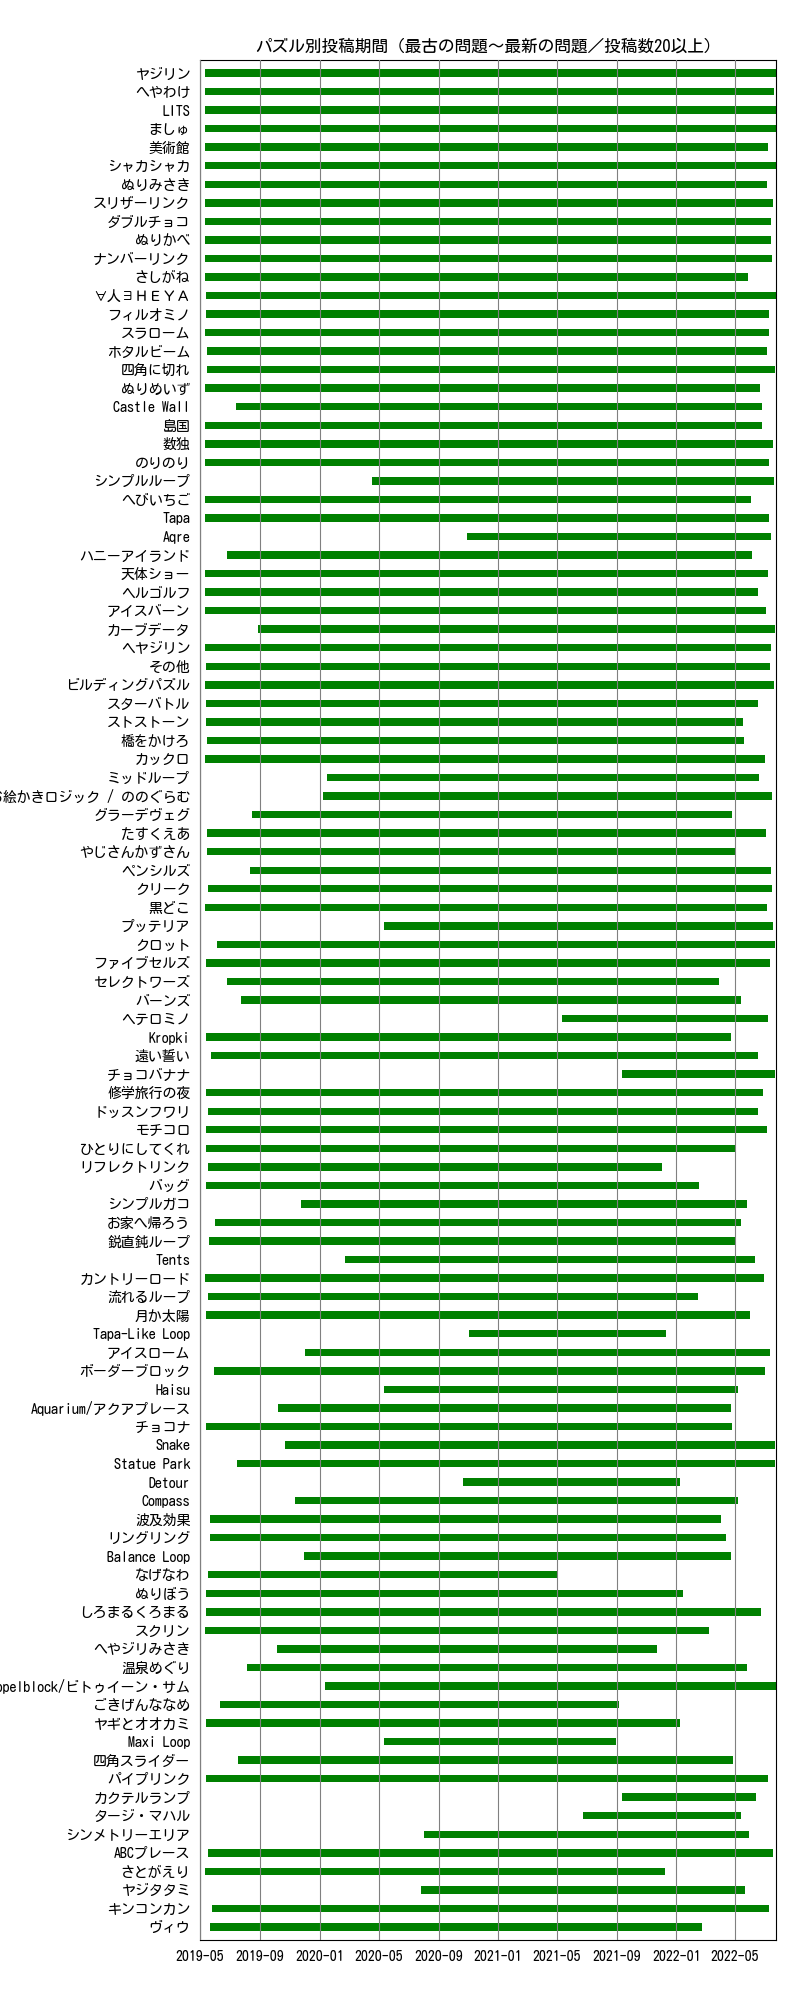
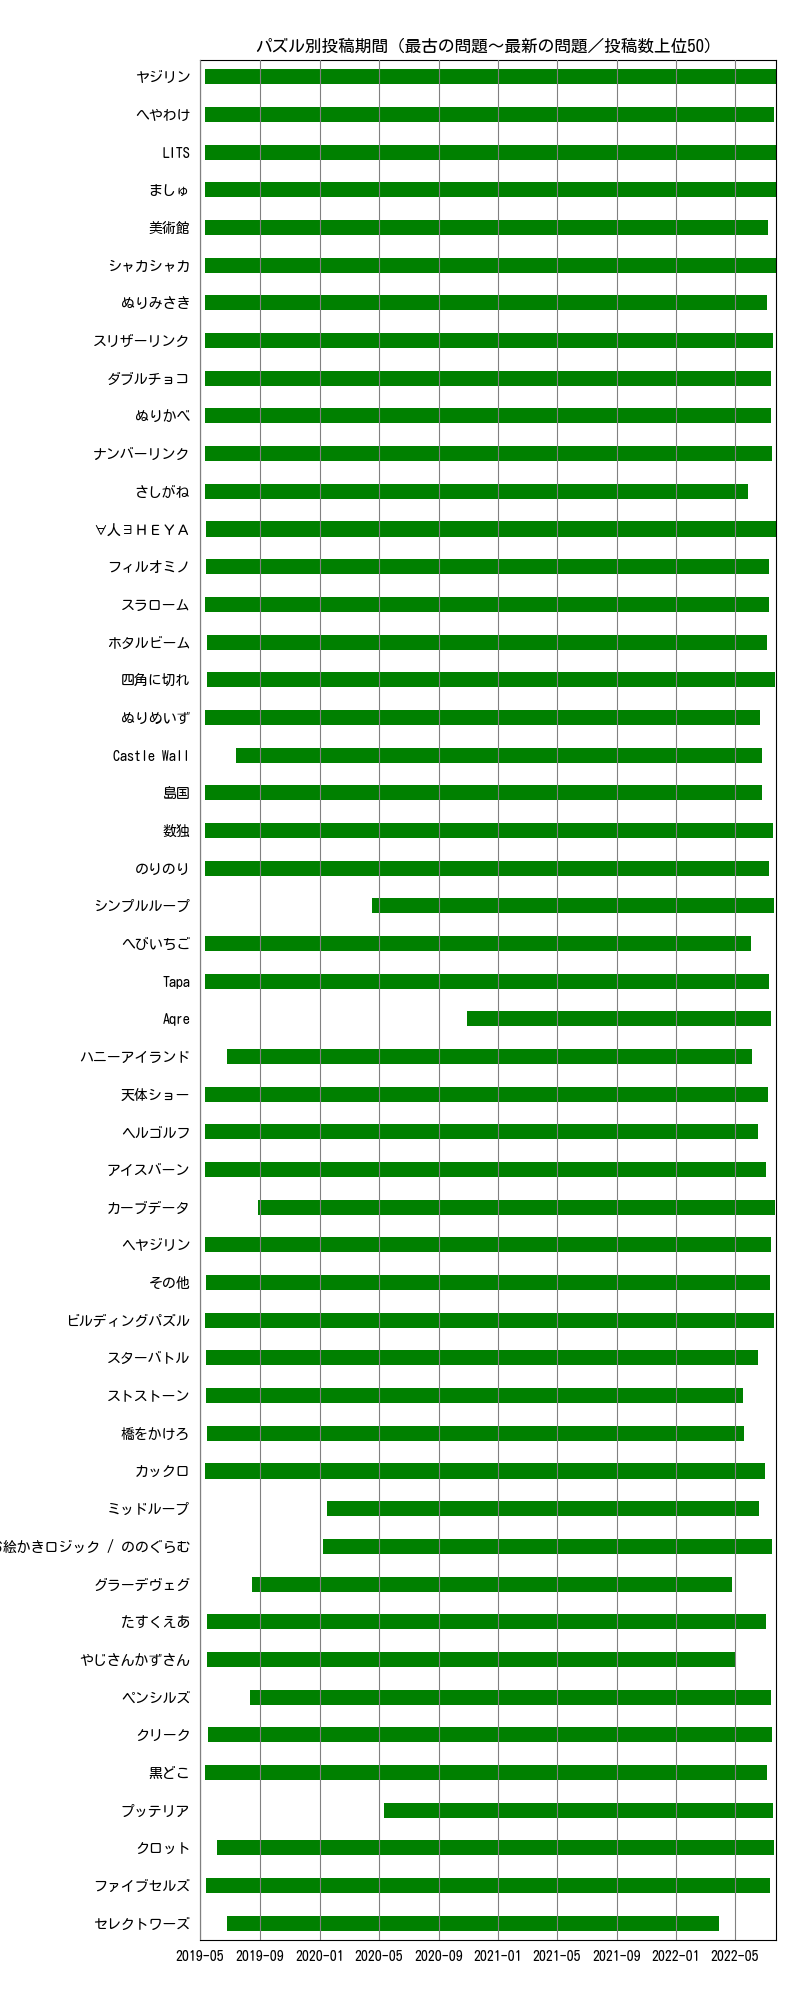
上位50に制限

diff --git a/python/graph-span.py b/python/graph-span.py
@@ -1,4 +1,5 @@
 # -*- coding: utf-8 -*- #
+from itertools import count
 import json
 from datetime import datetime
 from matplotlib import pyplot
@@ -17,7 +18,7 @@ def get_span_categories(data: dict, is_author: bool, limit: int):
         time = datetime.fromisoformat(d["created_at"])
         name = d[category_name]
         if name not in problem_dict:
-            problem_dict[name] = {"first": time, "last": time, "count": 1}
+            problem_dict[name] = {"first": time, "last": time, "count": 1, "name": name}
         else:
             if problem_dict[name]["first"] > time:
                 problem_dict[name]["first"] = time
@@ -25,23 +26,18 @@ def get_span_categories(data: dict, is_author: bool, limit: int):
                 problem_dict[name]["last"] = time
             problem_dict[name]["count"] += 1
 
-    del_list = []
-    for name, p in problem_dict.items():
-        if p["count"] < limit:
-            del_list.append(name)
-    for name in del_list:
-        del problem_dict[name]
-    sorted_dict = sorted(problem_dict.items(), key=lambda x: x[1]["count"])
+    sorted_list = sorted(problem_dict.values(), key=lambda x:x["count"])
+    limited_list = sorted_list[-1*limit:]
 
-    names = [name for name, _ in sorted_dict]
-    firsts = [p["first"] for _, p in sorted_dict]
-    lasts = [p["last"] for _, p in sorted_dict]
+    names = [p["name"] for p in limited_list]
+    firsts = [p["first"] for p in limited_list]
+    lasts = [p["last"] for p in limited_list]
 
     return names, firsts, lasts
 
 
 def plot_span_categories(data: dict, is_author: bool):
-    limit = 20
+    limit = 50
     name_display = "作者" if is_author else "パズル"
     image_name = "span-by-author.png" if is_author else "span-by-puzzle.png"
 
@@ -55,7 +51,7 @@ def plot_span_categories(data: dict, is_author: bool):
     pyplot.subplots_adjust(left=0.25, right=0.97, top=0.97, bottom=0.03)
     pyplot.xlim(datetime.fromisoformat("2019-05-01 00:00:00"), datetime.today())
 
-    pyplot.title(name_display + "別投稿期間（最古の問題～最新の問題／投稿数" + str(limit) + "以上）")
+    pyplot.title(name_display + "別投稿期間（最古の問題～最新の問題／投稿数上位" + str(limit) + "）")
     pyplot.ylabel("")
     pyplot.xlabel("")
 
